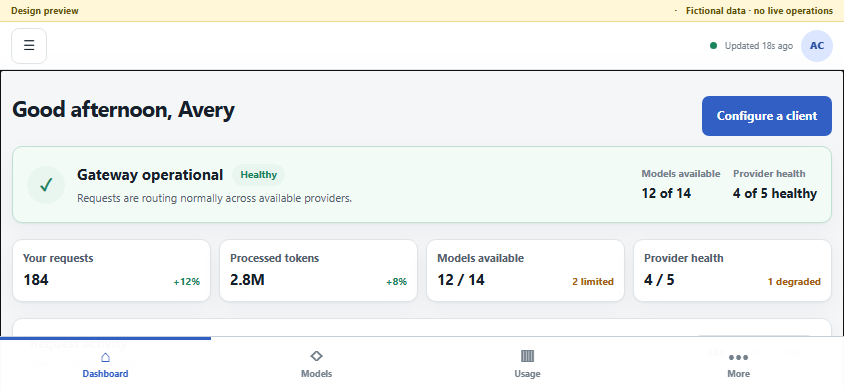
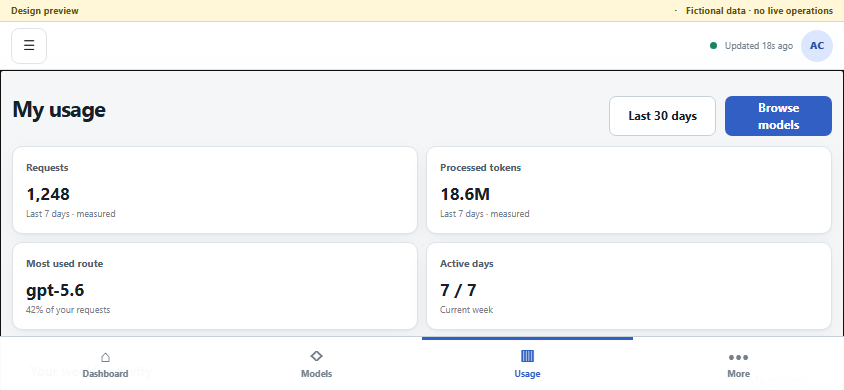
feat: add device-focused monitoring views

diff --git a/.product-design/rounds/step-0/primary/styles.css b/.product-design/rounds/step-0/primary/styles.css
@@ -131,6 +131,23 @@ main { grid-column: 2; min-width: 0; padding: 30px 32px 48px; }
 .text-button { border: 0; background: transparent; color: var(--accent); padding: 3px 0; font-size: 12px; font-weight: 700; cursor: pointer; }
 .text-button:hover { color: var(--accent-hover); text-decoration: underline; }
 
+.secondary-screen-focus { display: none; border: 1px solid var(--border); border-radius: 12px; background: white; box-shadow: var(--shadow); overflow: hidden; }
+.secondary-screen-focus > header { display: flex; align-items: center; justify-content: space-between; gap: 20px; padding: 20px 23px; border-bottom: 1px solid var(--border); }
+.secondary-screen-focus h2, .secondary-screen-focus p { margin: 0; }
+.secondary-screen-focus h2 { font-size: 20px; }
+.secondary-screen-focus > header p:last-child { margin-top: 4px; font-size: 11px; }
+.live-status { display: flex; align-items: center; gap: 7px; color: var(--text-secondary); font-size: 10px; font-weight: 700; }
+.focus-readouts { display: grid; grid-template-columns: repeat(4,1fr); border-bottom: 1px solid var(--border); }
+.focus-readouts article { padding: 16px 22px; border-right: 1px solid var(--border); }
+.focus-readouts article:last-child { border-right: 0; }
+.focus-readouts span, .focus-readouts strong, .focus-readouts small { display: block; }
+.focus-readouts span { color: var(--text-muted); font-size: 9px; text-transform: uppercase; }
+.focus-readouts strong { margin: 6px 0 2px; font-size: 24px; }
+.focus-readouts small { color: var(--text-secondary); font-size: 9px; }
+.focus-chart { height: 400px; display: flex; align-items: end; gap: 5px; padding: 30px 24px 20px; background-image: repeating-linear-gradient(to bottom, transparent 0, transparent 79px, var(--border) 79px, var(--border) 80px); }
+.focus-chart i, .live-chart i { flex: 1; min-width: 3px; border-radius: 3px 3px 0 0; background: #6688d2; }
+.secondary-screen-focus > footer { min-height: 48px; display: flex; align-items: center; justify-content: space-between; padding: 0 23px; border-top: 1px solid var(--border); color: var(--text-secondary); font-size: 10px; }
+
 .hero-status { min-height: 102px; display: grid; grid-template-columns: auto minmax(0,1fr) auto; align-items: center; gap: 17px; margin-bottom: 16px; padding: 20px 22px; border: 1px solid #bfe1d1; border-radius: var(--radius); background: #f3fbf7; box-shadow: var(--shadow); }
 .status-icon { width: 38px; height: 38px; display: grid; place-items: center; border-radius: 50%; font-size: 17px; font-weight: 800; }
 .status-icon.success { background: var(--success-bg); color: var(--success); }
@@ -242,6 +259,14 @@ body[data-runtime="operator"] .count-badge.operator-only { display: grid !import
 .empty-models { padding: 60px 20px; text-align: center; }
 .empty-models h2 { margin-bottom: 5px; }
 
+.live-monitor-panel { display: none; margin-bottom: 11px; }
+.live-chart-layout { display: grid; grid-template-columns: minmax(0,1fr) 115px; min-height: 220px; }
+.live-chart { display: flex; align-items: end; gap: 3px; padding: 22px 16px; background-image: repeating-linear-gradient(to bottom, transparent 0, transparent 54px, var(--border) 54px, var(--border) 55px); }
+.live-chart-layout aside { display: flex; flex-direction: column; justify-content: center; padding: 14px; border-left: 1px solid var(--border); background: var(--bg-subtle); }
+.live-chart-layout aside span { margin-top: 11px; color: var(--text-muted); font-size: 8px; text-transform: uppercase; }
+.live-chart-layout aside span:first-child { margin-top: 0; }
+.live-chart-layout aside strong { margin-top: 2px; font-size: 18px; }
+.live-chart-layout aside small { color: var(--text-secondary); font-size: 8px; }
 .monitor-summary { display: grid; grid-template-columns: repeat(4, minmax(0,1fr)); gap: 13px; margin-bottom: 16px; }
 .monitor-summary article { padding: 16px; border: 1px solid var(--border); border-radius: var(--radius); background: white; box-shadow: var(--shadow); }
 .monitor-summary span, .monitor-summary small, .monitor-summary strong { display: block; }
@@ -358,6 +383,14 @@ body[data-runtime="operator"] .count-badge.operator-only { display: grid !import
   .model-card .model-provider-cell { display: none; }
 }
 
+@media (min-width: 901px) and (max-width: 1200px) and (orientation: landscape) {
+  #page-dashboard .page-header { margin-bottom: 14px; }
+  #page-dashboard .page-header .page-actions { display: none; }
+  #page-dashboard .secondary-screen-focus { display: block; }
+  #page-dashboard .hero-status, #page-dashboard .degraded-banner, #page-dashboard .metric-grid, #page-dashboard .dashboard-grid { display: none !important; }
+  .focus-chart { height: 390px; }
+}
+
 @media (max-width: 720px), (max-height: 500px) and (orientation: landscape) and (max-width: 900px) {
   :root { --topbar-height: 56px; }
   body { padding-bottom: 64px; }
@@ -415,6 +448,11 @@ body[data-runtime="operator"] .count-badge.operator-only { display: grid !import
   .model-card .model-cell { display: none; }
   .model-card .model-main { display: block; }
   .model-card .model-mobile-meta { display: flex; grid-column: 1 / -1; flex-wrap: wrap; gap: 6px 13px; color: var(--text-secondary); font-size: 9px; }
+  #page-monitor .live-monitor-panel { display: block; }
+  #page-monitor .monitor-summary { grid-template-columns: repeat(4,minmax(120px,1fr)); overflow-x: auto; padding-bottom: 5px; scrollbar-width: thin; }
+  #page-monitor .monitor-summary article { min-width: 120px; }
+  .live-chart-layout { min-height: 245px; }
+  .live-chart-layout aside { width: 105px; }
   .data-list article { min-height: 0; grid-template-columns: 1fr 1fr; padding: 13px; }
   .data-list article > div:first-child { grid-column: 1 / -1; padding-bottom: 7px; border-bottom: 1px solid var(--border); }
   .data-list article > button { grid-column: 1 / -1; width: 100%; }
@@ -444,6 +482,11 @@ body[data-runtime="operator"] .count-badge.operator-only { display: grid !import
   .bottom-navigation { height: 54px; }
   .mobile-drawer:not([hidden]) { top: 22px; bottom: 54px; }
   main { padding-top: 12px; }
+  #page-monitor .live-monitor-panel { margin-bottom: 8px; }
+  #page-monitor .monitor-summary { display: none; }
+  #page-monitor .monitor-grid { display: none; }
+  .live-chart-layout { min-height: 205px; grid-template-columns: minmax(0,1fr) 100px; }
+  .live-chart { padding-top: 13px; padding-bottom: 13px; }
   .page-header { display: flex; align-items: center; margin-bottom: 10px; }
   .page-header .eyebrow, .page-header > div > p:last-child { display: none; }
   .page-header h1 { margin: 0; font-size: 1.35rem; }

diff --git a/.product-design/rounds/step-0/primary/index.html b/.product-design/rounds/step-0/primary/index.html
@@ -90,6 +90,13 @@
           </div>
         </header>
 
+        <section class="secondary-screen-focus" data-product-region="secondary-screen-focus" aria-labelledby="focus-title">
+          <header><div><p class="eyebrow">Secondary-screen focus</p><h2 id="focus-title">Live personal usage</h2><p id="focus-description">Your request activity · rolling 30 minutes</p></div><div class="live-status"><span class="status-dot healthy" aria-hidden="true"></span>Live · updated 18s ago</div></header>
+          <div class="focus-readouts" id="focus-readouts"></div>
+          <div class="focus-chart" id="focus-chart" role="img" aria-label="Live role-scoped activity over thirty minutes."></div>
+          <footer><span id="focus-summary">Activity is within your normal range.</span><span>Fictional design-preview data</span></footer>
+        </section>
+
         <section class="hero-status" data-product-region="gateway-status" aria-labelledby="gateway-status-title">
           <div class="status-icon success" aria-hidden="true">✓</div>
           <div class="hero-copy"><div><h2 id="gateway-status-title">Gateway operational</h2><span class="status-badge success">Healthy</span></div><p>Requests are routing normally across available providers.</p></div>
@@ -175,6 +182,7 @@
         <section class="monitor-summary" aria-label="Monitor summary">
           <article><span>Request rate</span><strong>21.4/min</strong><small>Pool-wide · measured</small></article><article><span>P95 latency</span><strong>2.8s</strong><small>Last 15 minutes</small></article><article><span>Error rate</span><strong>0.7%</strong><small>Within normal range</small></article><article id="persistence-metric"><span>Usage persistence</span><strong class="healthy-text">Healthy</strong><small>Canonical events current</small></article>
         </section>
+        <section class="panel live-monitor-panel" aria-labelledby="live-monitor-title"><header class="panel-header"><div><h2 id="live-monitor-title">Live request flow</h2><p>Pool-wide · rolling 30 minutes · fictional preview</p></div><div class="live-status"><span class="status-dot healthy" aria-hidden="true"></span>Live · 18s</div></header><div class="live-chart-layout"><div class="live-chart" id="live-monitor-chart" role="img" aria-label="Live pool request flow over thirty minutes, currently 21.4 requests per minute with one reduced-capacity provider."></div><aside><span>Now</span><strong>21.4/min</strong><small>Request rate</small><span>Headroom</span><strong>71%</strong><small>Across eligible routes</small></aside></div></section>
         <div class="monitor-grid">
           <section class="panel incident-detail" aria-labelledby="monitor-incident-title"><header class="panel-header"><div><h2 id="monitor-incident-title">Active incident</h2><p>Provider capacity · Warning</p></div><span class="status-badge warning">Degraded</span></header><div class="incident-body"><h3>DeepSeek capacity is limited</h3><p>Connection <code>DS-02</code> entered cooldown after an upstream quota response. The route remains available through <code>DS-01</code>.</p><dl><div><dt>User impact</dt><dd>Reduced request headroom; no current outage</dd></div><div><dt>Routing response</dt><dd>Traffic shifted to one eligible connection</dd></div><div><dt>Expected recovery</dt><dd>About 42 minutes</dd></div><div><dt>Last observed</dt><dd>4 minutes ago</dd></div></dl><button class="button secondary" type="button" data-navigate="connections">Inspect connection</button></div></section>
           <section class="panel event-panel" aria-labelledby="events-title"><header class="panel-header"><div><h2 id="events-title">Recent operational events</h2><p>Newest first</p></div></header><ol class="event-list"><li><time>14:28</time><span class="event-marker warning" aria-hidden="true"></span><div><strong>Connection entered cooldown</strong><p>DeepSeek · DS-02 · quota response</p></div></li><li><time>14:25</time><span class="event-marker info" aria-hidden="true"></span><div><strong>Routing compensated</strong><p>Traffic shifted to one eligible connection</p></div></li><li><time>14:12</time><span class="event-marker success" aria-hidden="true"></span><div><strong>Provider registry reloaded</strong><p>Five provider definitions active</p></div></li></ol></section>

diff --git a/.product-design/rounds/step-0/primary/app.js b/.product-design/rounds/step-0/primary/app.js
@@ -61,6 +61,26 @@ function renderChart(range) {
 }
 renderChart("24h");
 
+const livePoints = [28,32,30,38,35,42,39,45,48,44,52,49,58,55,61,57,64,60,69,66,72,68,75,73,79,76,82,78,84,81];
+function renderLiveBars(target, points = livePoints) {
+  const max = Math.max(...points);
+  target.innerHTML = points.map((value, index) => `<i style="height:${Math.max(8, value / max * 94)}%;opacity:${.58 + index / points.length * .42}" title="Interval ${index + 1}: ${value}"></i>`).join("");
+}
+renderLiveBars(document.querySelector("#live-monitor-chart"));
+renderLiveBars(document.querySelector("#focus-chart"), runtime === "operator" ? livePoints : livePoints.map((value, index) => Math.round(value * .52 + (index % 4) * 2)));
+
+const focus = runtime === "operator" ? {
+  title: "Live pool health", description: "Requests, latency, errors, and capacity · rolling 30 minutes", summary: "Routing is stable with one reduced-capacity provider.",
+  values: [["Request rate","21.4/min","Measured"],["P95 latency","2.8s","Last 15 min"],["Error rate","0.7%","Normal range"],["Headroom","71%","Estimated"]]
+} : {
+  title: "Live personal usage", description: "Your request activity · rolling 30 minutes", summary: "Your activity is within its normal range.",
+  values: [["Your requests","38","Last 30 min"],["Processed tokens","412K","Measured"],["Active route","gpt-5.6","63% of requests"],["Gateway","Healthy","12 models"]]
+};
+document.querySelector("#focus-title").textContent = focus.title;
+document.querySelector("#focus-description").textContent = focus.description;
+document.querySelector("#focus-summary").textContent = focus.summary;
+document.querySelector("#focus-readouts").innerHTML = focus.values.map(([label,value,detail]) => `<article><span>${label}</span><strong>${value}</strong><small>${detail}</small></article>`).join("");
+
 document.querySelectorAll("[data-range]").forEach(button => button.addEventListener("click", () => {
   document.querySelectorAll("[data-range]").forEach(item => {
     const active = item === button;
@@ -178,6 +198,13 @@ sidebarToggle.addEventListener("click", () => {
   sidebarToggle.setAttribute("aria-label", collapsed ? "Expand sidebar" : "Collapse sidebar");
   sidebarToggle.title = collapsed ? "Expand sidebar" : "Collapse sidebar";
 });
+const tabletLandscapeFocus = matchMedia("(min-width: 901px) and (max-width: 1200px) and (orientation: landscape)").matches;
+if (tabletLandscapeFocus) {
+  document.body.classList.add("sidebar-collapsed");
+  sidebarToggle.setAttribute("aria-expanded", "false");
+  sidebarToggle.setAttribute("aria-label", "Expand sidebar");
+  sidebarToggle.title = "Expand sidebar";
+}
 
 document.querySelector("#leaderboard-privacy").addEventListener("click", () => showToast("This preview shows abbreviated fictional names and aggregate weekly usage only."));
 
@@ -224,4 +251,7 @@ document.querySelector("#retry-persistence").addEventListener("click", () => {
 });
 
 const initialPage = location.hash.slice(1);
-navigate(initialPage && (workspacePages[initialPage] || ["dashboard", "models", "usage", "monitor"].includes(initialPage)) ? initialPage : "dashboard", false);
+const compactPortrait = matchMedia("(max-width: 720px)").matches;
+const compactLandscape = matchMedia("(max-height: 500px) and (orientation: landscape) and (max-width: 900px)").matches;
+const defaultPage = runtime === "operator" && (compactPortrait || compactLandscape) ? "monitor" : runtime === "member" && compactLandscape ? "usage" : "dashboard";
+navigate(initialPage && (workspacePages[initialPage] || ["dashboard", "models", "usage", "monitor"].includes(initialPage)) ? initialPage : defaultPage, false);

diff --git a/.product-design/direction/state-matrix.md b/.product-design/direction/state-matrix.md
@@ -8,12 +8,13 @@ Status: draft for owner review
 | S2 | Desktop · operator | Dashboard · degraded | Enter Monitor and inspect the connection incident | Operations are visibly separate; Monitor explains impact, routing compensation, and recovery without placing configuration on the dashboard |
 | S3 | Desktop · member | Models and My usage | Search/filter fictional routes, simulate copy, inspect weekly leaderboard | Route details remain understandable; usage comparison is aggregate, abbreviated, and clearly distinct from personal totals |
 | S4 | Tablet portrait · operator | Dashboard · stale analytics | Review localized stale state, collapse/expand navigation, and open destinations | Last-known-good information remains visible, freshness is explicit, and navigation remains usable in either density |
-| S5 | Mobile portrait · member | Dashboard · healthy | Scroll overview and use bottom navigation | Status and primary action appear early; no root horizontal overflow; secondary detail is progressively disclosed |
-| S6 | Mobile portrait · operator | Dashboard · degraded | Open More, enter Monitor, inspect incident | Member navigation remains compact; operator tools are reachable but not mixed into the primary bottom bar |
-| S7 | Mobile landscape · member | Models | Search/filter with focused input and open route details | Compact shell is used by default, the drawer and scrollbars are intentional, actions remain visible, and no root horizontal overflow occurs |
-| S8 | Desktop · operator | Monitor · localized resource error | Retry simulated persistence panel | Healthy monitor panels remain visible; the failing resource has an actionable local error and simulated recovery |
-| S9 | Any · member | Dashboard · no actionable incidents | Inspect attention region | A concise “No action required” state replaces an empty alert list without inventing warnings |
-| S10 | Any · operator | Provider connection summary · unknown provider | Inspect provider presentation | Unknown provider identity remains readable with neutral presentation and no provider-specific component failure |
+| S5 | Mobile portrait · member | Dashboard · healthy | Review gateway status and use bottom navigation | Personal status and usage appear early; no root horizontal overflow; secondary detail is progressively disclosed |
+| S6 | Mobile portrait · operator | Monitor · degraded | Inspect the live graph and incident, then open More | Monitor is the default compact destination; live state precedes administration and operator tools remain reachable |
+| S7 | Mobile landscape · member/operator | Personal usage or Monitor focus | Observe the dominant graph and open compact navigation | The compact shell defaults to the role-relevant live view, actions remain visible, and no root horizontal overflow occurs |
+| S8 | Tablet landscape · member/operator | Secondary-screen focus view | Leave the display running and inspect current state at a glance | One large graph dominates; freshness and four role-scoped metrics remain readable without interaction; broad dashboard panels are suppressed |
+| S9 | Desktop · operator | Monitor · localized resource error | Retry simulated persistence panel | Healthy monitor panels remain visible; the failing resource has an actionable local error and simulated recovery |
+| S10 | Any · member | Dashboard · no actionable incidents | Inspect attention region | A concise “No action required” state replaces an empty alert list without inventing warnings |
+| S11 | Any · operator | Provider connection summary · unknown provider | Inspect provider presentation | Unknown provider identity remains readable with neutral presentation and no provider-specific component failure |
 
 ## Shared acceptance checks
 

diff --git a/.product-design/rounds/step-0/primary/README.md b/.product-design/rounds/step-0/primary/README.md
@@ -13,7 +13,8 @@ This single artifact tests the Phase 9 interaction architecture before visual al
 - representative Models and My usage experiences, including a privacy-conscious weekly leaderboard;
 - accessible collapsible desktop navigation and compact mobile-landscape navigation;
 - neutral professional baseline presentation;
-- responsive desktop, tablet, portrait-mobile, and landscape-mobile hierarchy;
+- responsive desktop, tablet portrait, tablet-landscape secondary-screen, portrait-mobile, and landscape-mobile hierarchy;
+- role-aware compact defaults: operator mobile opens Monitor, member landscape opens My usage, and tablet landscape opens a focused live graph;
 - localized resource failure and in-memory recovery.
 
 It does not claim full legacy parity or final visual approval. Setup, Provider connections, Model routes, and System provide representative Step 0 content and interactions so the information architecture can be reviewed; their production workflows remain part of later tracked phases.
@@ -21,13 +22,14 @@ It does not claim full legacy parity or final visual approval. Setup, Provider c
 ## Runtime profiles
 
 - `member` — member workspace, personal metric scope, no operator navigation.
-- `operator` — adds a separate Operations group, degraded-capacity example, pool metric scope, and Monitor.
+- `operator` — adds a separate Operations group, degraded-capacity example, pool metric scope, and Monitor. Compact operator profiles start in Monitor; tablet landscape uses a pool-health focus view.
 
 Runtime profiles are presentation-only fixtures and do not authorize anything.
 
 ## Interactions
 
 - Navigate Dashboard, Models, My usage, Setup, Monitor, Provider connections, Model routes, and System.
+- Review role-aware device defaults: desktop Dashboard, operator mobile Monitor, member mobile landscape My usage, and tablet-landscape live focus.
 - Collapse and expand the desktop sidebar for the current in-memory preview session.
 - Review a fictional weekly leaderboard with abbreviated member labels and aggregate processed-token totals.
 - Change dashboard activity range.

diff --git a/.product-design/direction/product-truth.md b/.product-design/direction/product-truth.md
@@ -112,9 +112,10 @@ In the real product:
 ## Responsive priorities
 
 - At 1440px, show a persistent sidebar and a readable two-column dashboard hierarchy.
-- At 820px, retain clear workspace grouping while reducing simultaneous secondary content.
-- At 390px portrait, use a compact header, bottom member navigation, and a menu/drawer for less frequent and operator destinations.
-- At 844×390 landscape, keep status and primary actions visible without root horizontal overflow.
+- At 820px portrait, retain clear workspace grouping while reducing simultaneous secondary content.
+- At 1180×820 landscape tablet, assume secondary-screen monitoring: show one dominant live graph, freshness, and a small current-state strip; member scope is personal usage and operator scope is pool health.
+- At 390px portrait, use a compact header and bottom navigation; operator presentation starts in Monitor while member presentation starts with personal gateway status.
+- At 844×390 landscape mobile, operator presentation is a focused Monitor with the live graph and incident state ahead of administration; member presentation prioritizes gateway state and personal usage.
 - Wide comparison tables must have disclosure/list alternatives on narrow screens.
 
 ## Visual direction
